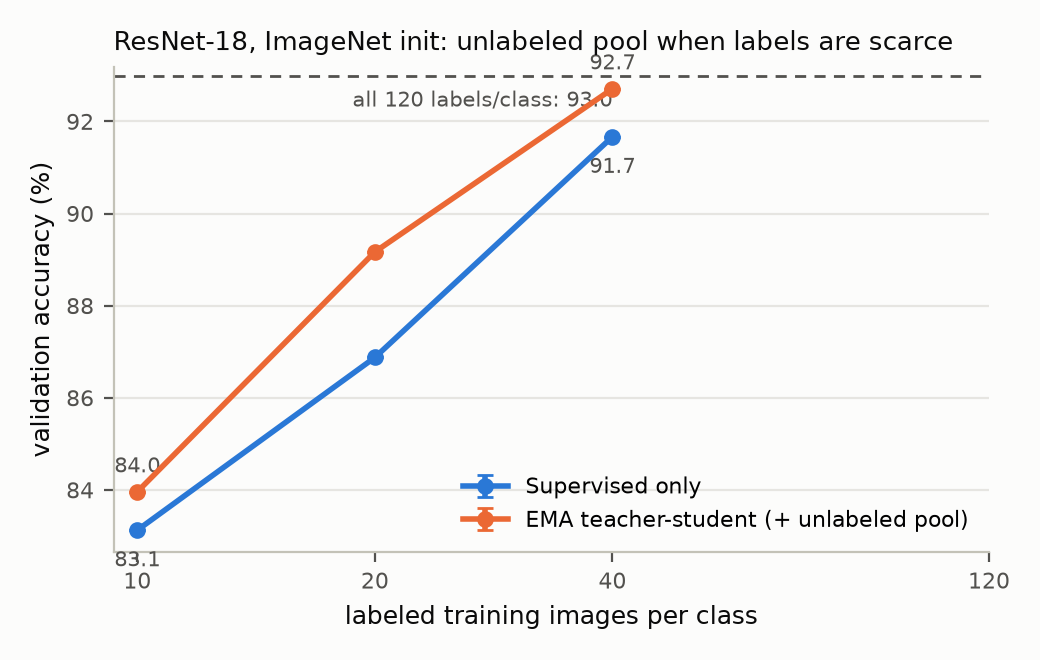
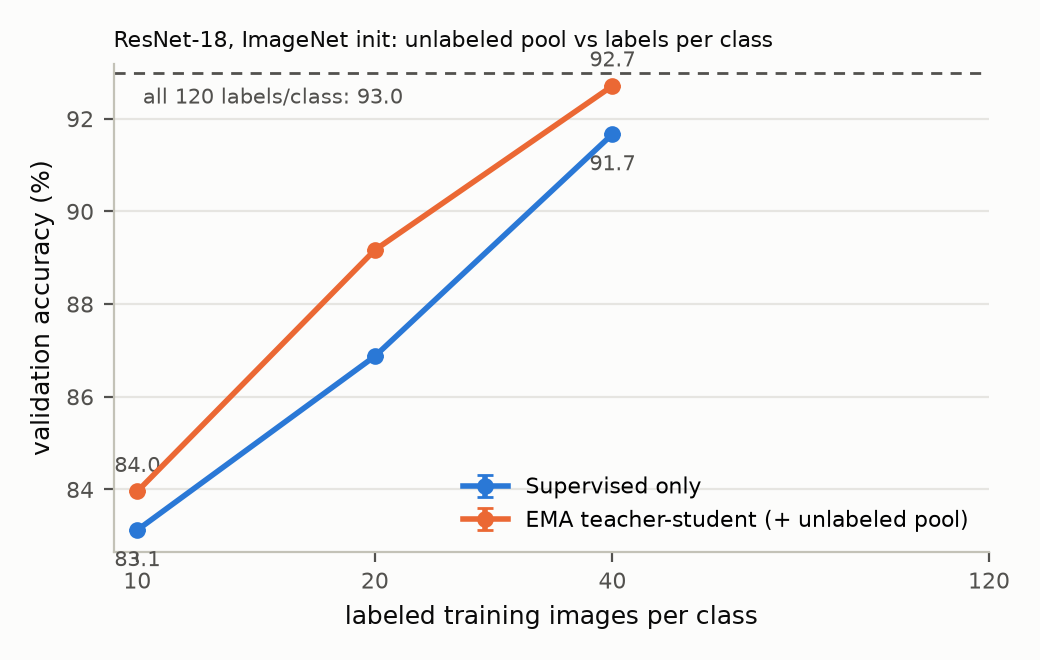
Branch figures: shorter titles, ceiling label at left; note confirmation-bias diagnostic
Claude-Session: https://claude.ai/code/session_019nbQ3zP7gokykaQi6XTDJv

diff --git a/scripts/plot_lowlabel.py b/scripts/plot_lowlabel.py
@@ -68,8 +68,8 @@ def main():
     if ref:
         r = st.mean(ref)
         ax.axhline(r, color="#52514e", lw=1, ls=(0, (4, 3)), zorder=2)
-        ax.annotate(f"all 120 labels/class: {r:.1f}", (max(max(pts[m]) for m in pts if pts[m]), r),
-                    textcoords="offset points", xytext=(0, -11), ha="right", fontsize=7.5, color="#52514e")
+        ax.annotate(f"all 120 labels/class: {r:.1f}", (min(min(pts[m]) for m in pts if pts[m]), r),
+                    textcoords="offset points", xytext=(2, -11), ha="left", fontsize=7.5, color="#52514e")
     ax.set_xlabel("labeled training images per class", fontsize=9, color="#0b0b0b")
     ax.set_ylabel("validation accuracy (%)", fontsize=9, color="#0b0b0b")
     ax.set_xscale("log", base=2); ax.set_xticks([10, 20, 40, 120]); ax.set_xticklabels(["10", "20", "40", "120"])
@@ -78,7 +78,7 @@ def main():
     for s in ("left", "bottom"): ax.spines[s].set_color("#c3c2b7")
     ax.tick_params(colors="#52514e", labelsize=8)
     ax.legend(frameon=False, fontsize=8, loc="lower right")
-    ax.set_title(args.title, fontsize=9.5, loc="left", color="#0b0b0b")
+    ax.set_title(args.title, fontsize=9 if len(args.title) < 60 else 8, loc="left", color="#0b0b0b", wrap=True)
     if args.ymin is not None:
         ax.set_ylim(bottom=args.ymin)
     fig.tight_layout()

diff --git a/docs/branch/README.md b/docs/branch/README.md
@@ -56,3 +56,9 @@ versions are queued.
 Queue: `queues/extended_scratch_s0.txt`, log: `runs/queue_extended_scratch_s0.log`.
 Done so far: all-labels scratch ceiling at ~10k steps = **85.0** (vs 83.3 at 3k).
 - `semisup_r18sc_ts_k20_long` (10k steps): **76.3** vs 75.8 at 3k steps. Best epoch 486/625; final mask rate 0.91, pseudo-label accuracy 0.756. Tripling the budget bought ~0.5 points: the scratch teacher-student runs are limited by pseudo-label quality, not steps.
+  Diagnostic worth keeping: at 3k steps the teacher labeled 62 % of the pool at 87.5 % accuracy; by 10k
+  steps it labeled 91 % at 75.6 %. More confident and less correct over time is confirmation bias in
+  the raw numbers: the student learns the teacher's early mistakes, the teacher (its average) inherits
+  them, and the threshold stops filtering. Candidate fixes if we go further: a higher tau for scratch
+  runs, a slower EMA (0.999), class-balanced pseudo-labeling (the Unbiased Teacher fix), or a
+  distribution-alignment term.
